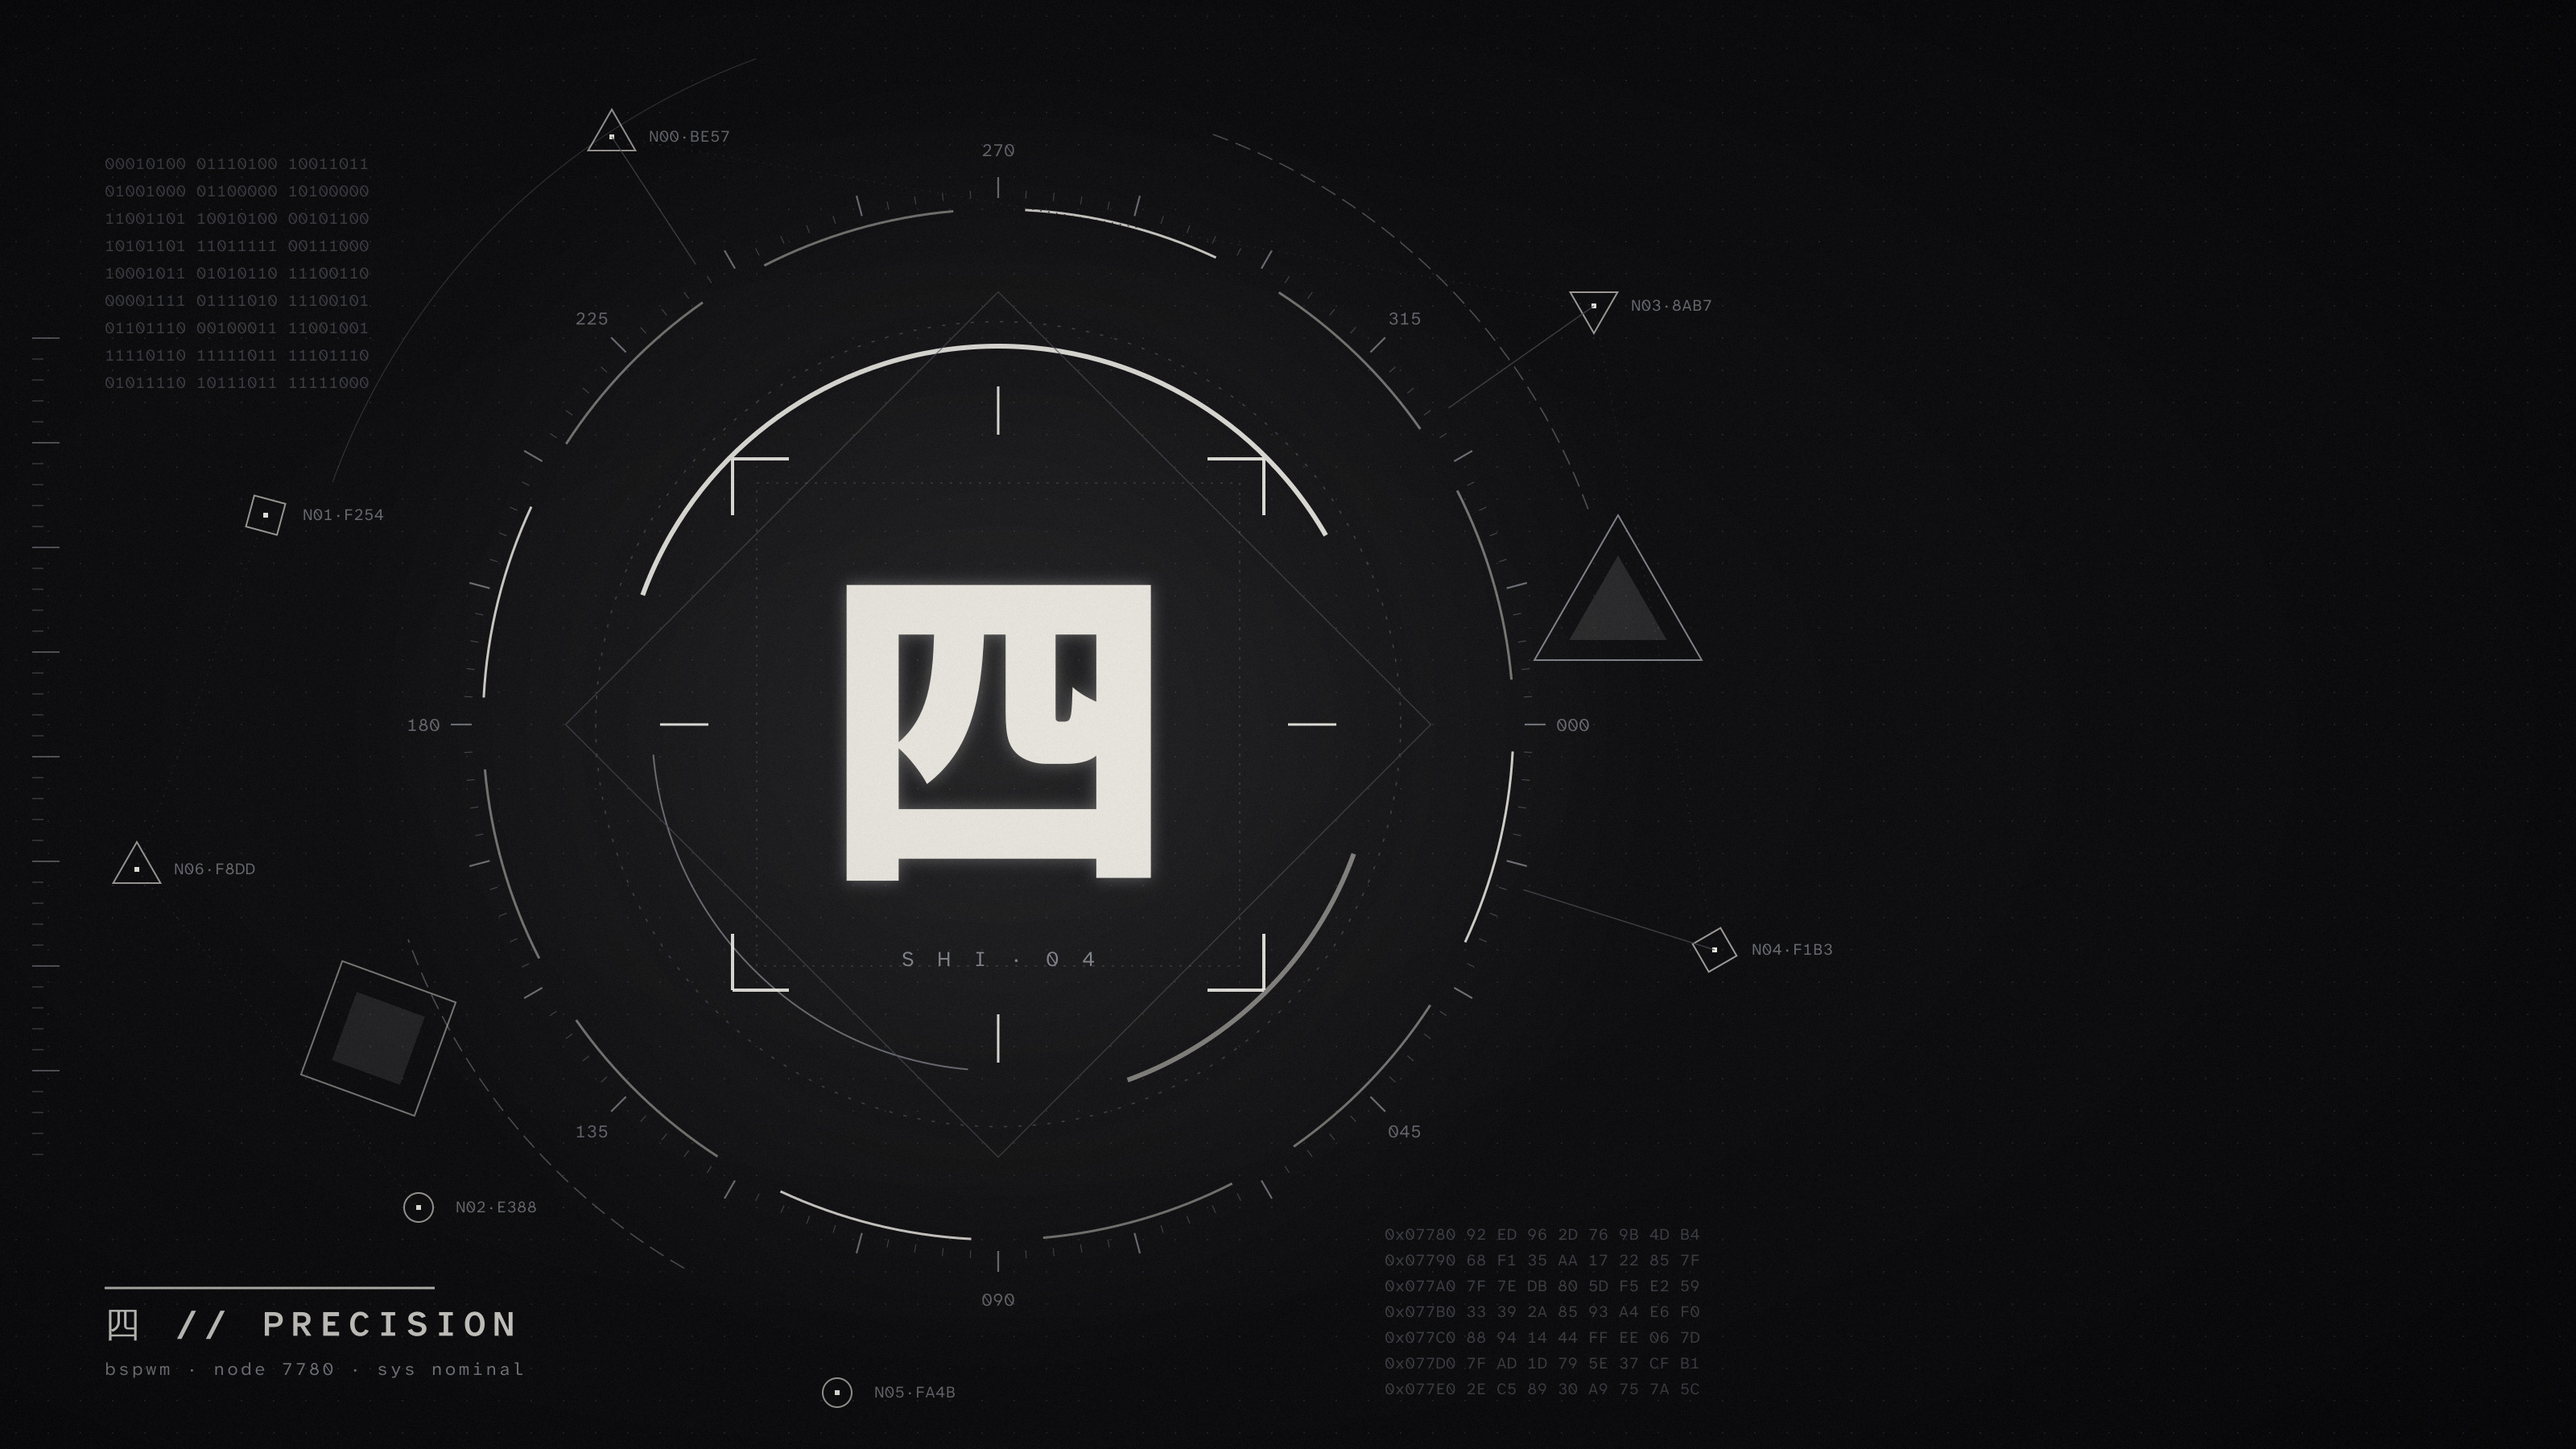
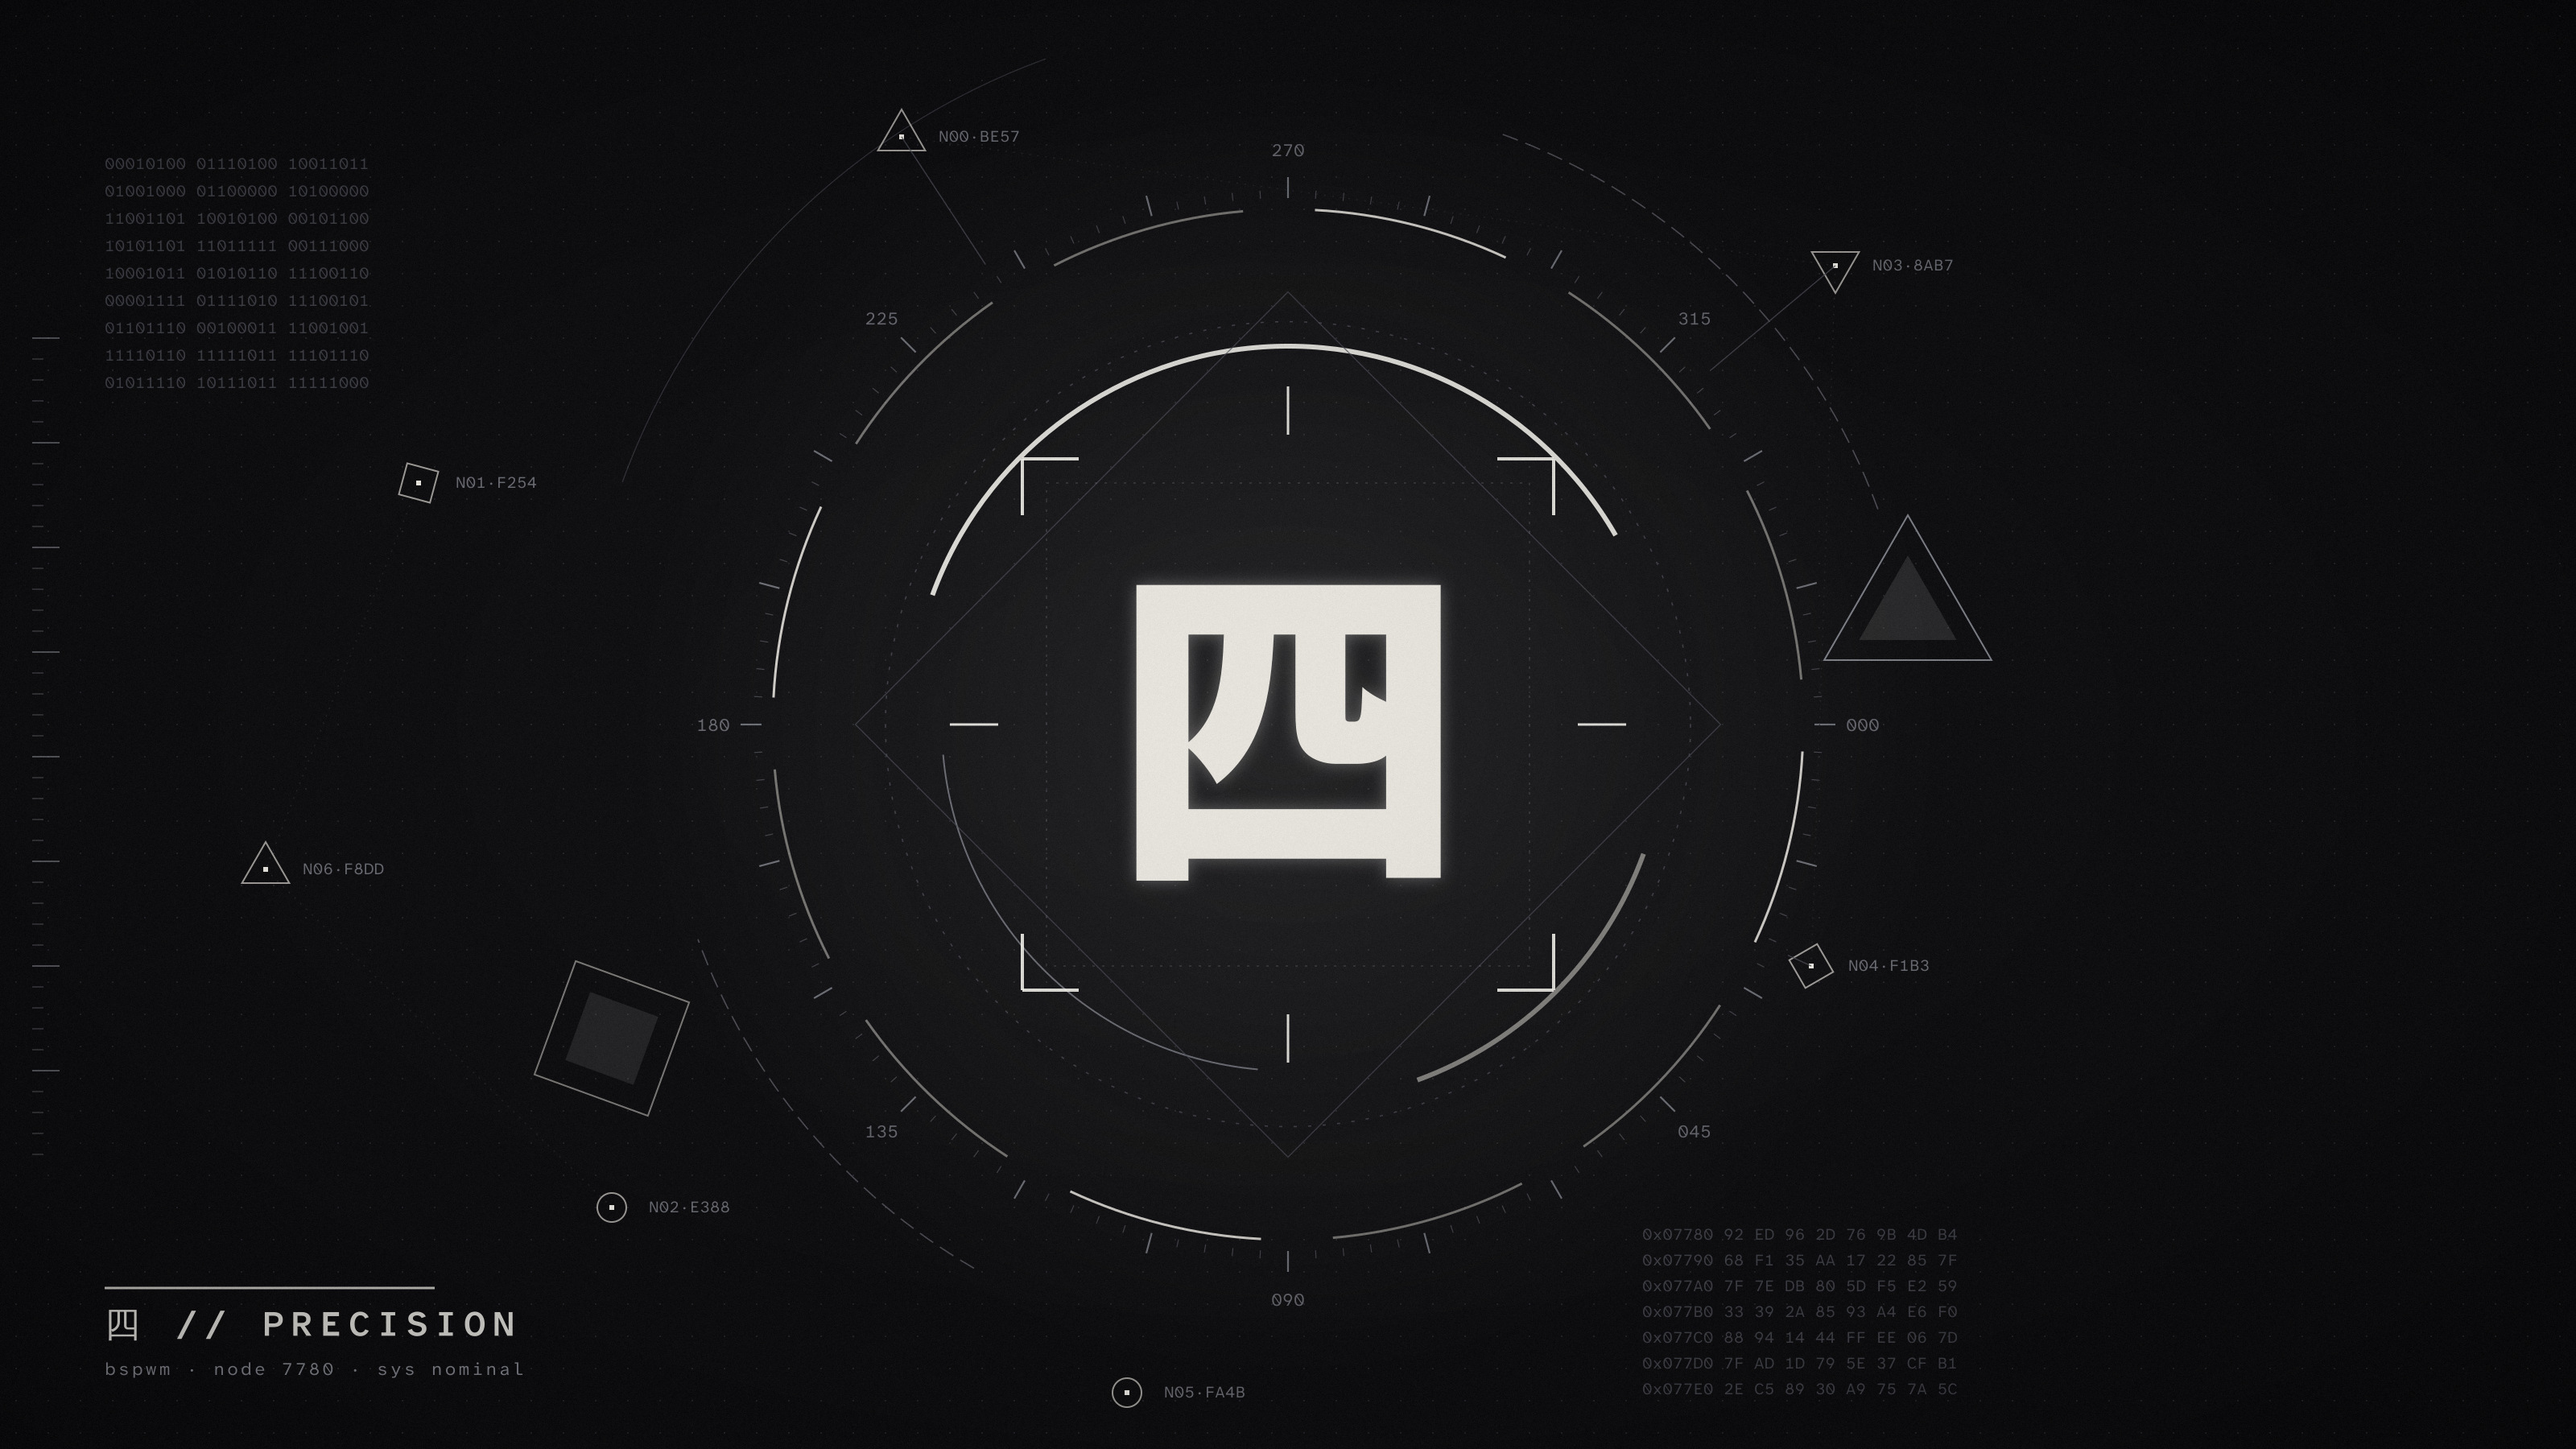
Wallpaper: centre the 四 emblem on screen, drop the SHI·04 caption
Satellites (nodes, triangle, square, hex block) moved with it and kept
clear of the conky HUD column.

diff --git a/scripts/wallpaper/gen_emblem.py b/scripts/wallpaper/gen_emblem.py
@@ -26,7 +26,7 @@ rng = np.random.default_rng(4)          # 四
 WHITE, LIGHT, MID, DIM, FAINT = "#f2efe9", "#c9c6c0", "#8e9099", "#4b4d55", "#26272b"
 BG0, BG1 = "#0a0a0c", "#141417"
 MONO = "Atkinson Hyperlegible Mono"
-CX, CY = 1240 * S, 900 * S              # emblem centre (left of the HUD column)
+CX, CY = W / 2, H / 2                   # emblem centred on the screen
 
 svg = []
 add = svg.append
@@ -144,10 +144,9 @@ for deg in (0, 90, 180, 270):
 # soft glow only
 add(f'<text x="{f(CX)}" y="{f(CY + 165 * S)}" font-family="Noto Sans CJK JP" font-weight="900" '
     f'font-size="{f(440 * S)}" fill="#e6e3dd" text-anchor="middle" filter="url(#glow)">四</text>')
-text(CX, CY + 300 * S, "S H I · 0 4", 26 * S, MID, 0.9, "middle", ls=6 * S)
 
 # ------------------------------------------------------------------ satellites: triangles, squares, nodes
-nodes = [(760, 170), (330, 640), (520, 1500), (1980, 380), (2130, 1180), (1040, 1730), (170, 1080)]
+nodes = [(1120, 170), (520, 600), (760, 1500), (2280, 330), (2250, 1200), (1400, 1730), (330, 1080)]
 nodes = [(a * S, b * S) for a, b in nodes]
 # dotted links only between neighbouring outer nodes (never across the emblem)
 for a, b in [(1, 6), (6, 2), (0, 3), (3, 4)]:
@@ -170,10 +169,10 @@ for k in (0, 3, 4):
     line(x0, y0, x, y, DIM, 1.4 * S, 0.8)
 
 # big filled triangle accent (solid grey) + hollow twin
-tri(2010 * S, 760 * S, 120 * S, 30, MID, 2 * S, 0.9)
-tri(2010 * S, 760 * S, 70 * S, 30, WHITE, 0, 0.12, fill=WHITE)
-rsquare(470 * S, 1290 * S, 150 * S, 20, LIGHT, 2 * S, 0.6)
-rsquare(470 * S, 1290 * S, 90 * S, 20, WHITE, 0, 0.1, fill=WHITE)
+tri(2370 * S, 760 * S, 120 * S, 30, MID, 2 * S, 0.9)
+tri(2370 * S, 760 * S, 70 * S, 30, WHITE, 0, 0.12, fill=WHITE)
+rsquare(760 * S, 1290 * S, 150 * S, 20, LIGHT, 2 * S, 0.6)
+rsquare(760 * S, 1290 * S, 90 * S, 20, WHITE, 0, 0.1, fill=WHITE)
 
 # ------------------------------------------------------------------ data fragments
 for k in range(9):
@@ -181,7 +180,7 @@ for k in range(9):
     text(130 * S, (210 + k * 34) * S, bits, 20 * S, DIM, 0.85)
 for k in range(7):
     hx = " ".join(f"{int(v):02X}" for v in rng.integers(0, 256, 8))
-    text(1720 * S, (1540 + k * 32) * S, f"0x{0x7780 + k * 16:05X}  {hx}", 20 * S, DIM, 0.85)
+    text(2040 * S, (1540 + k * 32) * S, f"0x{0x7780 + k * 16:05X}  {hx}", 20 * S, DIM, 0.85)
 # vertical scale on the left edge
 for k in range(40):
     y = (420 + k * 26) * S
